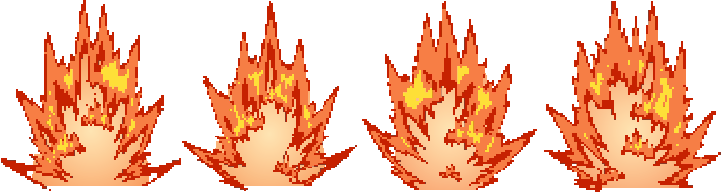
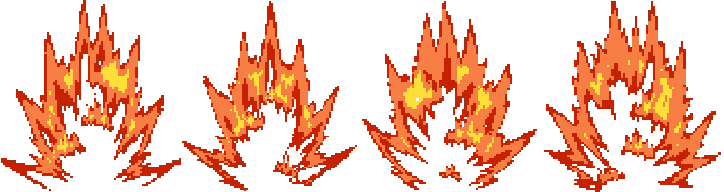
novo 0.154: carregando, a aura vermelha usa o mesmo desenho suave
Claude-Session: https://claude.ai/code/session_01QkbtJoCpGHcYGXCafKsAMX

diff --git a/novo/src/dados/novidades.ts b/novo/src/dados/novidades.ts
@@ -11,7 +11,7 @@ export const NOVIDADES: Novidade[] = [
     itens: [
       'Aura azul agora só nas formas Blue. Os Saiyajins na forma normal (Vegeta, Gohan, Trunks, Gotenks, Bardock, Vegetto, Raditz) e a Androide 18 têm uma aura clara, cinza e translúcida.',
       'Goku normal com a aura vermelha do Kaioken e o corpo levemente avermelhado.',
-      'A aura verde forte (Piccolo, Cell, Broly, Androide 17) tinha só o contorno: agora o centro é preenchido de verde, e saíram os quadros em que ela se desfazia e piscava. As auras vermelhas (Kaioken e Super Saiyajin God) também ganharam o miolo preenchido.',
+      'A aura verde forte (Piccolo, Cell, Broly, Androide 17) tinha só o contorno: agora o centro é preenchido de verde, e saíram os quadros em que ela se desfazia e piscava. A aura vermelha (Kaioken e Super Saiyajin God) ganhou o miolo preenchido e, ao carregar ki, usa o mesmo desenho suave, maior e mais forte (antes trocava por um desenho pixelado).',
       'Quadros que ficavam fora do centro da aura foram centralizados: Piccolo sem capa (parado, carregar ki e parry), Piccolo Laranja, Bardock SSJ, Cell Perfeito, Freeza ciborgue e terceira forma, Gotenks SSJ3, Raditz e Trunks Fúria.',
       'A aura agora acompanha a altura real do desenho de cada movimento (cabelo, pose): não fica mais abaixo da cabeça, sempre em volta do corpo todo.',
       'O nome "Sem capa" do Piccolo não aparece mais na barra de vida.',

diff --git a/novo/src/logica/efeitos.ts b/novo/src/logica/efeitos.ts
@@ -22,7 +22,8 @@ export function quadroUnico(nome: NomeEfeito, prog: number): number | null {
  *  null, e a aura é a labareda desenhada (traceKiAuraFlame). */
 const AURA_EFEITOS: Partial<Record<Aura, [NomeEfeito, NomeEfeito]>> = {
   verde: ['aura_verde', 'aura_verde_forte'], azul: ['aura_azul', 'aura_azul'], amarelo: ['aura_amarela', 'aura_amarela_forte'],
-  vermelho: ['aura_vermelha', 'aura_vermelha_forte'], roxo: ['aura_roxa', 'aura_roxa'],
+  // v0.154: a vermelha forte (pixelada, de outro desenho) saiu: carregando, a mesma vermelha suave, maior e mais forte
+  vermelho: ['aura_vermelha', 'aura_vermelha'], roxo: ['aura_roxa', 'aura_roxa'],
   blue: ['aura_azul_chama', 'aura_azul_chama'], azul_escuro: ['aura_azul_escura', 'aura_azul_escura'],
 };
 export const efeitoDaAura = (aura: Aura, forte: boolean): NomeEfeito | null => AURA_EFEITOS[aura]?.[forte ? 1 : 0] ?? null;

diff --git a/AGENTS.md b/AGENTS.md
@@ -27,7 +27,7 @@ Repo layout:
 - Sprites: `novo/scripts/gerar-atlas.py` turns `novo/fontes/conjuntos/<nome>/<forma>.json` (frame = `[x, y, w, h, webp b64]`, placement `gx = 48 + (x − centroX)/k`, `gy = 103 + (y − pesY)/k` in a 96x112 cell, idle ≈ 88 units) into `novo/public/atlas/<nome>-<forma>.webp/.json` (cells 144x168) plus `retratos`; rerun it whenever a pack changes. A form's `transform` strip is the PREVIOUS form's TRANSFORMAR strip. After rebuilding packs, check that no frame leaves the 96x112 frame and that no frame is only fragments (v0.124). A new form = pack file + `variantes` in the pack + entry in `dados/personagens.ts` (`f(forma, nome, aura, altura)`) + atlas; `tests/atlas.test.ts` counts the forms.
 - Thin forms (v0.150): `novo/scripts/alargar-forma.py <nome> <forma> <pct>` widens a pack from the neck down (torso, arms, legs; head and height unchanged), keeps the drawing centred and moves the `mao`/`dedo` point; then rebuild that atlas. Piccolo `semcapa` got 20%; v0.151: Trunks `furia` 20%, Vegeta `normal`/`blue` 15%, Bardock `ssj`, Vegetto `ssj`/`blue`, Android 17 `super17` 10% (TRANSFORMAR frames that still show the other form are in `PULAR`). Colour fixes: `novo/scripts/corrigir-cor.py <nome> <forma> <ref>` matches a hue band to a reference form (Vegeta `god` suit blue = `normal` ×`VIVO`, also the first 3 TRANSFORMAR frames of `blue`). Always show the user an in-game-scale preview before changing a sprite.
 - Defeat (v0.148): a fallen fighter (`acao 'caido'`) is thrown backwards off screen by the last hit (v0.149, 3x stronger in v0.153: `quedaVx`/`quedaVy` set in `aplicarDano` from its `direcao`, arc with drag and gravity in `voarParaFora`, no spin, never below the floor) instead of turning translucent.
-- Auras (v0.154): blue (`azul`/`blue`) only on Blue forms (test enforces); Saiyan base forms use `branca` (drawn flame, `ALFA_AURA` 0.6); Goku normal = `vermelho` + `tom: TOM_KAIOKEN` (sprite tint applied in `Luta.desenharLutador`, the hit flash wins). Aura height follows the drawing: `alturaDoCorpo(sprite)` (ui/formas.ts, median of the movement frames, cached) is passed to `EfeitosDoLutador.desenhar` so the aura top stays above the head. `aura_verde_forte` strip = 6 filled frames; `aura_vermelha`/`_forte` hollow centres filled with `novo/scripts/preencher-aura.py` (flame-shaped core behind the body). `novo/scripts/centralizar-quadros.py [--gravar]` re-centres idle/chargeKi/parry frames whose lower-body centre is >7 px off the form median (the aura is drawn on the sprite centre).
+- Auras (v0.154): blue (`azul`/`blue`) only on Blue forms (test enforces); Saiyan base forms use `branca` (drawn flame, `ALFA_AURA` 0.6); Goku normal = `vermelho` + `tom: TOM_KAIOKEN` (sprite tint applied in `Luta.desenharLutador`, the hit flash wins). Aura height follows the drawing: `alturaDoCorpo(sprite)` (ui/formas.ts, median of the movement frames, cached) is passed to `EfeitosDoLutador.desenhar` so the aura top stays above the head. `aura_verde_forte` strip = 6 filled frames; `aura_vermelha` hollow centre filled (the pixelated `aura_vermelha_forte` is no longer used: `vermelho` = vermelha for both states) with `novo/scripts/preencher-aura.py` (flame-shaped core behind the body). `novo/scripts/centralizar-quadros.py [--gravar]` re-centres idle/chargeKi/parry frames whose lower-body centre is >7 px off the form median (the aura is drawn on the sprite centre).
 - Effects: `novo/scripts/gerar-efeitos.py` packs `novo/fontes/efeitos/*.png` (table in `dados/efeitos.ts`) into the `efeitos` multiatlas; drawing `ui/efeitos.ts`, math `logica/efeitos.ts`. Sound is synthesized (`audio/som.ts` + `logica/musica.ts` + `dados/temas.ts`); never transcribe real songs' melodies.
 - Updates (v0.129): `app/aviso.ts` (`verificarAtualizacao`, at most every 10 min, called by Menu/Atualizacoes) only CHECKS — app: the same latest.json decision; site: `versao.json` emitted by the `versao-json` plugin in `vite.config.ts` vs `__BUILD__` — and lights a red "!" dot on the 4-star sphere and on UPDATES; on the site ATUALIZAÇÕES shows RECARREGAR (`recarregarSite`). Nothing is downloaded automatically; the app updates only from the ⟳ ATUALIZAR button (latest.json from the `app-bundle` prerelease, through native `CapacitorHttp`, sha256-checked download). In an Android browser the button is BAIXAR APP.
 
